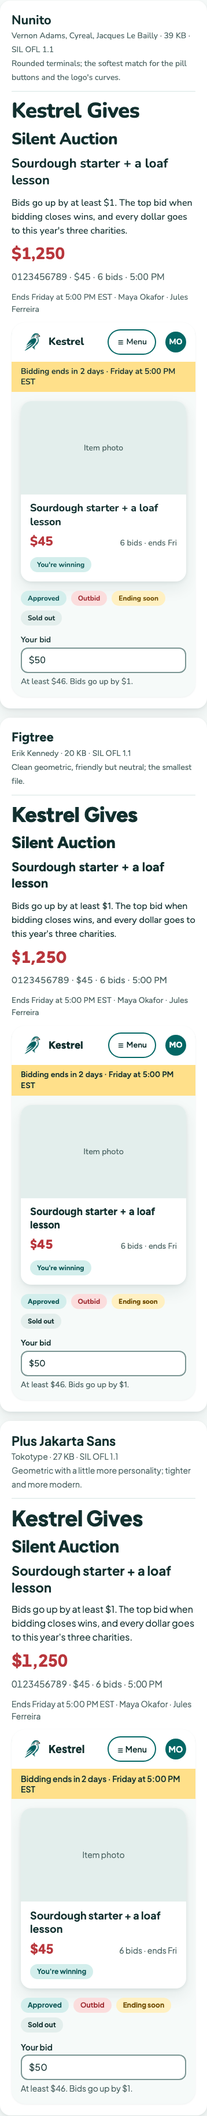
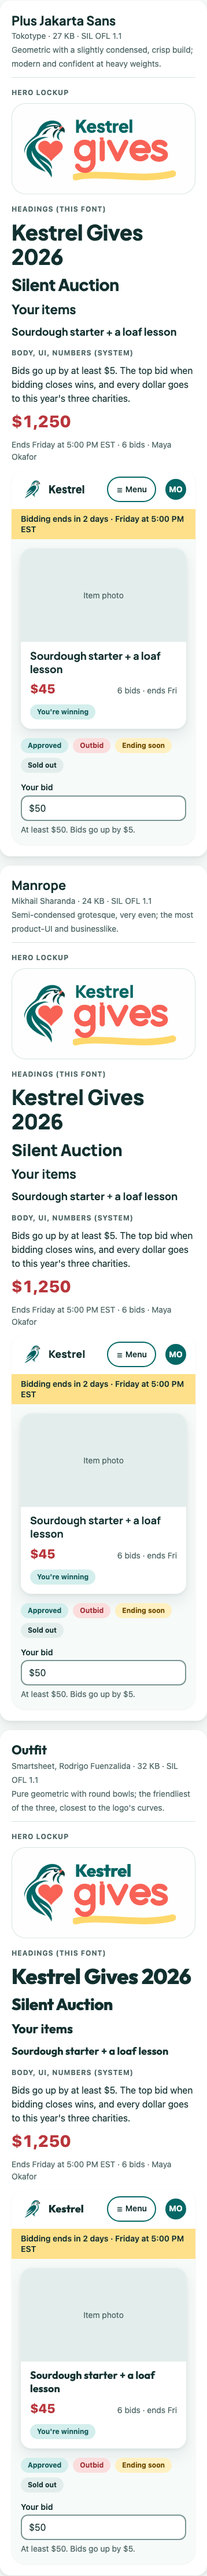
Heading-font candidates, 320px reflow check, bid copy fix, tabular figures (SPEC v1.4, #44-#46)
- tokens: --font-heading for display/heading roles only; amount on the
  system stack; --figures-amount: tabular-nums
- check 7: npm run check:reflow (every screen at 320px; no sideways scroll
  or clipped content), proven on synthetic pages and the real bug
- token sheet: Plus Jakarta Sans / Manrope / Outfit heading comparison
  with hero lockups; header wraps instead of clipping; bid copy uses the
  $5 increment
- SPEC sections 5, 7.4, 8, 12; DECISIONS #44-#46; README; BUILD-LOG

Claude-Session: https://claude.ai/code/session_015JgzUwBbGunLtZEHRRN7yC

diff --git a/design/token-sheet.html b/design/token-sheet.html
@@ -13,15 +13,17 @@
      sheet can't drift from the token file. Add ?font=nunito|figtree|jakarta to render the
      whole sheet in a candidate font. -->
 <style>
-/* Font candidates (review only; the chosen one moves to public/fonts/ and tokens.css). */
-@font-face { font-family: "Nunito"; src: url("font-candidates/nunito-latin-var.woff2") format("woff2"); font-weight: 200 1000; font-display: swap; }
-@font-face { font-family: "Figtree"; src: url("font-candidates/figtree-latin-var.woff2") format("woff2"); font-weight: 300 900; font-display: swap; }
+/* Heading-font candidates (review only; the chosen one moves to public/fonts/ and
+   tokens.css --font-heading). Body and UI stay on the system stack. */
 @font-face { font-family: "Plus Jakarta Sans"; src: url("font-candidates/plus-jakarta-sans-latin-var.woff2") format("woff2"); font-weight: 200 800; font-display: swap; }
+@font-face { font-family: "Manrope"; src: url("font-candidates/manrope-latin-var.woff2") format("woff2"); font-weight: 200 800; font-display: swap; }
+@font-face { font-family: "Outfit"; src: url("font-candidates/outfit-latin-var.woff2") format("woff2"); font-weight: 100 900; font-display: swap; }
+.cand-jakarta { --cand: "Plus Jakarta Sans"; }
+.cand-manrope { --cand: "Manrope"; }
+.cand-outfit { --cand: "Outfit"; }
 /* The --type-* roles resolve their family at :root, so a candidate is applied by
-   overriding font-family on everything inside it (review page only). */
-.font-nunito, .font-nunito * { font-family: "Nunito", var(--font-sans) !important; }
-.font-figtree, .font-figtree * { font-family: "Figtree", var(--font-sans) !important; }
-.font-jakarta, .font-jakarta * { font-family: "Plus Jakarta Sans", var(--font-sans) !important; }
+   overriding font-family on heading-role elements only (review page only). */
+:is(.cand-jakarta, .cand-manrope, .cand-outfit) :is(.s-heading, .hw-kestrel, .p-tile h4, .p-brand, .meta h1, h3) { font-family: var(--cand), var(--font-sans) !important; }
 code, code * { font-family: ui-monospace, SFMono-Regular, Menlo, monospace !important; }
 
 * { box-sizing: border-box; }
@@ -71,7 +73,7 @@ code { font-size: 0.92em; overflow-wrap: anywhere; }
 .crow .use { grid-area: use; font: var(--type-caption); color: var(--color-text-muted); }
 .chip { display: flex; align-items: center; gap: var(--space-2); background: var(--color-bg); color: var(--color-text); border-radius: var(--radius-md); padding: var(--space-2); box-shadow: var(--shadow-sm); min-width: 0; }
 .chip i { width: var(--space-8); height: var(--space-8); border-radius: var(--radius-sm); flex: none; box-shadow: inset 0 0 0 var(--border-thin) var(--color-border); }
-.chip span { font: var(--type-badge); font-weight: var(--weight-medium); font-variant-numeric: tabular-nums; overflow-wrap: anywhere; }
+.chip span { font: var(--type-badge); font-weight: var(--weight-medium); font-variant-numeric: var(--figures-amount); overflow-wrap: anywhere; }
 
 /* Contrast */
 .scroll { overflow-x: auto; }
@@ -79,7 +81,7 @@ code { font-size: 0.92em; overflow-wrap: anywhere; }
 .contrast { width: 100%; min-width: calc(var(--space-16) * 10); border-collapse: collapse; font: var(--type-caption); }
 .contrast th, .contrast td { text-align: left; padding: var(--space-2) var(--space-3); border-bottom: var(--border-thin) solid var(--color-border); }
 .contrast th { font: var(--type-label); color: var(--color-text-muted); }
-.contrast td.num { font-variant-numeric: tabular-nums; white-space: nowrap; }
+.contrast td.num { font-variant-numeric: var(--figures-amount); white-space: nowrap; }
 .sample-pair { display: inline-block; padding: var(--space-1) var(--space-2); border-radius: var(--radius-sm); font-weight: var(--weight-semibold); white-space: nowrap; }
 .pass { color: var(--color-success); font-weight: var(--weight-bold); }
 .fail { color: var(--color-danger); font-weight: var(--weight-bold); }
@@ -92,7 +94,7 @@ code { font-size: 0.92em; overflow-wrap: anywhere; }
 .trow .spec code { color: var(--color-text); font-weight: var(--weight-semibold); }
 .weights { display: flex; gap: var(--space-2) var(--space-6); flex-wrap: wrap; font: var(--type-heading-2); }
 
-/* Font candidates */
+/* Heading-font candidates */
 .fonts { display: grid; grid-template-columns: repeat(auto-fit, minmax(min(100%, calc(var(--size-tile-min) * 1.15)), 1fr)); gap: var(--space-4); }
 .font-col { background: var(--color-surface); border-radius: var(--radius-lg); box-shadow: var(--shadow-md); padding: var(--space-5); display: grid; gap: var(--space-3); align-content: start; min-width: 0; }
 .font-col header { border-bottom: var(--border-thin) solid var(--color-border); padding-bottom: var(--space-3); }
@@ -101,10 +103,14 @@ code { font-size: 0.92em; overflow-wrap: anywhere; }
 .font-col .s-display { font: var(--type-display); letter-spacing: var(--tracking-tight); margin: 0; }
 .font-col .s-h1 { font: var(--type-heading-1); letter-spacing: var(--tracking-tight); margin: 0; }
 .font-col .s-h2 { font: var(--type-heading-2); margin: 0; }
+.font-col .s-h3 { font: var(--type-heading-3); margin: 0; }
+.font-col .hero-card { margin: 0; padding: var(--space-4); gap: var(--space-3); box-shadow: inset 0 0 0 var(--border-thin) var(--color-border); }
+.font-col .hero-card img { height: calc(var(--space-16) * 1.6); }
+.font-col .hero-card svg { width: min(100%, calc(var(--space-16) * 3)); }
+.font-col .tag { font: var(--type-overline); letter-spacing: var(--tracking-label); text-transform: uppercase; color: var(--color-text-muted); margin: var(--space-2) 0 0; }
 .font-col .s-body { font: var(--type-body); margin: 0; }
 .font-col .s-caption { font: var(--type-caption); color: var(--color-text-muted); margin: 0; }
-.font-col .s-amount { font: var(--type-amount); color: var(--color-price); margin: 0; font-variant-numeric: tabular-nums; }
-.font-col .s-digits { font: var(--type-body); font-variant-numeric: tabular-nums; margin: 0; color: var(--color-text-muted); }
+.font-col .s-amount { font: var(--type-amount); color: var(--color-price); margin: 0; font-variant-numeric: var(--figures-amount); }
 
 /* Spacing, radius, shadow */
 .space-row { display: grid; grid-template-columns: minmax(0, 1.4fr) 1fr; gap: var(--space-3); align-items: center; padding: var(--space-1) 0; font: var(--type-caption); }
@@ -128,7 +134,7 @@ code { font-size: 0.92em; overflow-wrap: anywhere; }
 
 /* Tokens in use (a preview, not the components) */
 .preview { container-type: inline-size; background: var(--color-bg); color: var(--color-text); border-radius: var(--radius-xl); overflow: hidden; box-shadow: var(--shadow-sm); }
-.p-header { display: flex; align-items: center; gap: var(--space-3) var(--space-4); padding: var(--space-3) var(--space-4); background: var(--color-surface); box-shadow: 0 var(--border-thin) 0 var(--color-border); }
+.p-header { display: flex; flex-wrap: wrap; align-items: center; gap: var(--space-3) var(--space-4); padding: var(--space-3) var(--space-4); background: var(--color-surface); box-shadow: 0 var(--border-thin) 0 var(--color-border); }
 .p-brand { display: flex; align-items: center; gap: var(--space-2); font: var(--type-heading-3); font-weight: var(--weight-heavy); }
 .p-brand-tile { display: grid; place-items: center; width: var(--space-10); height: var(--space-10); border-radius: var(--radius-md); flex: none; }
 .scheme-dark .p-brand-tile { background: var(--color-mark-tile); }
@@ -146,7 +152,7 @@ code { font-size: 0.92em; overflow-wrap: anywhere; }
 .p-tile .c { padding: var(--space-3) var(--space-4) var(--space-4); }
 .p-tile h4 { margin: 0; font: var(--type-heading-3); }
 .p-price { display: flex; justify-content: space-between; align-items: baseline; gap: var(--space-2); margin: var(--space-2) 0 var(--space-3); }
-.p-price strong { font: var(--type-heading-2); font-weight: var(--weight-heavy); color: var(--color-price); font-variant-numeric: tabular-nums; }
+.p-price strong { font: var(--type-heading-2); font-weight: var(--weight-heavy); color: var(--color-price); font-variant-numeric: var(--figures-amount); }
 .p-price span { font: var(--type-caption); color: var(--color-text-muted); }
 .row { display: flex; gap: var(--space-2); flex-wrap: wrap; align-items: center; }
 .btn { font: var(--type-button); min-height: var(--size-target); padding: 0 var(--space-5); border-radius: var(--radius-pill); border: 0; cursor: pointer; transition: background-color var(--duration-fast) var(--ease-standard); }
@@ -163,7 +169,7 @@ code { font-size: 0.92em; overflow-wrap: anywhere; }
 .neutral { background: var(--color-surface-muted); color: var(--color-text); }
 .field { display: grid; gap: var(--space-1); max-width: var(--size-content-narrow); }
 .field label { font: var(--type-label); }
-.field input { font: var(--type-body); min-height: var(--size-target); padding: 0 var(--space-3); border-radius: var(--radius-md); border: var(--border-thick) solid var(--color-border-strong); background: var(--color-surface); color: var(--color-text); min-width: 0; }
+.field input { font: var(--type-body); font-variant-numeric: var(--figures-amount); min-height: var(--size-target); padding: 0 var(--space-3); border-radius: var(--radius-md); border: var(--border-thick) solid var(--color-border-strong); background: var(--color-surface); color: var(--color-text); min-width: 0; }
 .field input:focus-visible { outline: var(--focus-width) solid var(--color-focus); outline-offset: var(--focus-offset); }
 .field .help { font: var(--type-caption); color: var(--color-text-muted); }
 .field.err input { border-color: var(--color-danger); }
@@ -225,8 +231,8 @@ footer { margin-top: var(--space-12); padding-top: var(--space-4); border-top: v
   <h3>Weights</h3>
   <div class="weights" data-weights></div>
 
-  <h2>Font candidates</h2>
-  <p class="lede">One font, self-hosted (a variable WOFF2 with the Latin subset, from <code>public/fonts/</code>), with the system stack as the fallback. All three are SIL Open Font License 1.1.</p>
+  <h2>Heading font candidates</h2>
+  <p class="lede">System fonts for body, UI, and numbers. One self-hosted font (a variable WOFF2 with the Latin subset, in <code>public/fonts/</code>) only for the display and heading roles and the hero "Kestrel", with the system stack as its fallback. All three are SIL Open Font License 1.1. Add <code>?heading=jakarta</code>, <code>manrope</code>, or <code>outfit</code> to the URL to set the whole sheet's headings in one.</p>
   <div class="fonts" data-fonts></div>
 
   <h2>Spacing</h2>
@@ -291,7 +297,7 @@ footer { margin-top: var(--space-12); padding-top: var(--space-4); border-top: v
       <div class="row">
         <span class="pill ok">Approved</span><span class="pill bad">Outbid</span><span class="pill warn">Ending soon</span><span class="pill neutral">Sold out</span><span class="pill bad" data-full>Rejected</span><span class="pill warn" data-full>Proof due in 3 days</span>
       </div>
-      <div class="field"><label>Your bid</label><input value="$50" aria-label="Your bid"><span class="help">At least $46. Bids go up by $1.</span></div>
+      <div class="field"><label>Your bid</label><input value="$50" aria-label="Your bid"><span class="help">At least $50. Bids go up by $5.</span></div>
       <div class="field err" data-full><label>Donation amount</label><input value="$30" aria-label="Donation amount"><span class="help">This is less than the $45 you owe. You can still submit.</span></div>
       <p style="margin: 0" data-full><a class="p-link" href="#">Upload donation proof</a></p>
       <div class="p-toast" data-full>Bid placed. You're the top bidder.</div>
@@ -383,7 +389,7 @@ const ROLES = [
   ["--type-heading-3", "Tile titles, card headings", "Sourdough starter + a loaf lesson"],
   ["--type-amount", "Item price on the detail page", "$1,250"],
   ["--type-body-lg", "Lead paragraphs", "Bid on things your coworkers made, found, or offered."],
-  ["--type-body", "Body, inputs", "Bids go up by at least $1. The top bid when bidding closes wins."],
+  ["--type-body", "Body, inputs", "Bids go up by at least $5. The top bid when bidding closes wins."],
   ["--type-label", "Form labels, nav, table headers", "Your bid"],
   ["--type-button", "Buttons", "Place a bid"],
   ["--type-caption", "Help text, meta", "6 bids · ends Friday at 5:00 PM EST"],
@@ -392,15 +398,15 @@ const ROLES = [
 ];
 const SCALE = ["--text-xs", "--text-sm", "--text-md", "--text-lg", "--text-xl", "--text-2xl", "--text-3xl", "--text-4xl"];
 const FONTS = [
-  ["font-nunito", "Nunito", "Rounded terminals; the softest match for the pill buttons and the logo's curves.", "nunito"],
-  ["font-figtree", "Figtree", "Clean geometric, friendly but neutral; the smallest file.", "figtree"],
-  ["font-jakarta", "Plus Jakarta Sans", "Geometric with a little more personality; tighter and more modern.", "plus-jakarta-sans"],
+  ["cand-jakarta", "Plus Jakarta Sans", "Geometric with a slightly condensed, crisp build; modern and confident at heavy weights.", "plus-jakarta-sans"],
+  ["cand-manrope", "Manrope", "Semi-condensed grotesque, very even; the most product-UI and businesslike.", "manrope"],
+  ["cand-outfit", "Outfit", "Pure geometric with round bowls; the friendliest of the three, closest to the logo's curves.", "outfit"],
 ];
-const FONT_META = { nunito: ["Vernon Adams, Cyreal, Jacques Le Bailly", "39 KB"], figtree: ["Erik Kennedy", "20 KB"], "plus-jakarta-sans": ["Tokotype", "27 KB"] };
+const FONT_META = { "plus-jakarta-sans": ["Tokotype", "27 KB"], manrope: ["Mikhail Sharanda", "24 KB"], outfit: ["Smartsheet, Rodrigo Fuenzalida", "32 KB"] };
 
-// Whole-sheet font override for review: ?font=nunito|figtree|jakarta
-const pick = new URLSearchParams(location.search).get("font");
-if (pick) document.documentElement.classList.add(`font-${pick}`);
+// Whole-sheet heading override for review: ?heading=jakarta|manrope|outfit
+const pick = new URLSearchParams(location.search).get("heading");
+if (pick) document.documentElement.classList.add(`cand-${pick}`);
 
 const root = getComputedStyle(document.documentElement);
 const raw = (name) => root.getPropertyValue(name).trim();
@@ -506,7 +512,7 @@ for (const [role, use, sample, tight] of ROLES) {
   const leadVal = lead;
   roleHost.append(el("div", { className: "trow" },
     el("div", { className: "spec" }, code(role), el("br"), `${use}`),
-    el("div", { textContent: sample, style: `font: var(${role}); ${tight ? "letter-spacing: var(--tracking-tight);" : ""} ${role === "--type-overline" ? "letter-spacing: var(--tracking-label);" : ""} ${role === "--type-amount" ? "color: var(--color-price);" : ""}` }),
+    el("div", { textContent: sample, className: /display|heading/.test(role) ? "s-heading" : "", style: `font: var(${role}); ${tight ? "letter-spacing: var(--tracking-tight);" : ""} ${role === "--type-overline" ? "letter-spacing: var(--tracking-label);" : ""} ${role === "--type-amount" ? "color: var(--color-price);" : ""}` }),
     el("div", { className: "spec" }, `${sizeTok.replace("--", "")} · ${px}`, el("br"), `${wTok.replace("--weight-", "")} ${w} · leading ${leadVal}`, el("br"), "Figma: ", code(figmaName(role)), " text style")));
 }
 const scaleHost = document.querySelector("[data-scale]");
@@ -526,15 +532,20 @@ const fHost = document.querySelector("[data-fonts]");
 for (const [cls, name, note, slug] of FONTS) {
   const [designer, size] = FONT_META[slug];
   const col = el("section", { className: `font-col ${cls}`, ariaLabel: name });
+  const lockup = document.querySelector(".hero-card").cloneNode(true);
   col.append(
-    el("header", {}, el("strong", { textContent: name }), el("span", { textContent: `${designer} · ${size} · SIL OFL 1.1` }), el("br"), el("span", { textContent: note })),
-    el("p", { className: "s-display", textContent: "Kestrel Gives" }),
-    el("p", { className: "s-h1", textContent: "Silent Auction" }),
-    el("p", { className: "s-h2", textContent: "Sourdough starter + a loaf lesson" }),
-    el("p", { className: "s-body", textContent: "Bids go up by at least $1. The top bid when bidding closes wins, and every dollar goes to this year's three charities." }),
+    el("header", {}, el("strong", { className: "s-heading", textContent: name }), el("span", { textContent: `${designer} · ${size} · SIL OFL 1.1` }), el("br"), el("span", { textContent: note })),
+    el("p", { className: "tag", textContent: "Hero lockup" }),
+    lockup,
+    el("p", { className: "tag", textContent: "Headings (this font)" }),
+    el("p", { className: "s-display s-heading", textContent: "Kestrel Gives 2026" }),
+    el("p", { className: "s-h1 s-heading", textContent: "Silent Auction" }),
+    el("p", { className: "s-h2 s-heading", textContent: "Your items" }),
+    el("p", { className: "s-h3 s-heading", textContent: "Sourdough starter + a loaf lesson" }),
+    el("p", { className: "tag", textContent: "Body, UI, numbers (system)" }),
+    el("p", { className: "s-body", textContent: "Bids go up by at least $5. The top bid when bidding closes wins, and every dollar goes to this year's three charities." }),
     el("p", { className: "s-amount", textContent: "$1,250" }),
-    el("p", { className: "s-digits", textContent: "0123456789 · $45 · 6 bids · 5:00 PM" }),
-    el("p", { className: "s-caption", textContent: "Ends Friday at 5:00 PM EST · Maya Okafor · Jules Ferreira" }),
+    el("p", { className: "s-caption", textContent: "Ends Friday at 5:00 PM EST · 6 bids · Maya Okafor" }),
   );
   const mini = document.getElementById("preview").content.cloneNode(true);
   for (const n of mini.querySelectorAll("[data-full]")) n.remove();

diff --git a/public/styles/tokens.css b/public/styles/tokens.css
@@ -54,10 +54,14 @@
   --color-mark-tile:       light-dark(#FEFEFE, #FEFEFE); /* the art's own white */
 
   /* ---------- Type: families ---------- */
-  /* The self-hosted brand font is chosen in Milestone 1 (SPEC §5); the system stack is
-     the fallback while it loads and if it fails. */
+  /* System fonts for body and UI. One self-hosted heading font (chosen at the Milestone 1
+     review, SPEC §5) for the display and heading roles and the hero "Kestrel"; the system
+     stack is its fallback while it loads and if it fails. */
   --font-sans: system-ui, -apple-system, "Segoe UI", Roboto, "Helvetica Neue", Arial, sans-serif;
-  --font-display: var(--font-sans);
+  --font-heading: var(--font-sans);
+
+  /* Prices, bid amounts, and counts line up: font-variant-numeric: var(--figures-amount). */
+  --figures-amount: tabular-nums;
 
   /* ---------- Type: scale (building blocks; components use the roles below) ---------- */
   --text-xs:   0.75rem;  /* 12 */
@@ -83,11 +87,11 @@
   --tracking-label: 0.08em;   /* uppercase eyebrow labels */
 
   /* ---------- Type: roles (use with the font shorthand: font: var(--type-body)) ---------- */
-  --type-display:   var(--weight-heavy) var(--text-4xl)/var(--leading-tight) var(--font-display);   /* Home headline */
-  --type-heading-1: var(--weight-heavy) var(--text-2xl)/var(--leading-tight) var(--font-display);   /* page titles */
-  --type-heading-2: var(--weight-bold) var(--text-xl)/var(--leading-snug) var(--font-display);      /* section headings */
-  --type-heading-3: var(--weight-bold) var(--text-lg)/var(--leading-snug) var(--font-display);      /* tile titles, card headings */
-  --type-amount:    var(--weight-heavy) var(--text-3xl)/var(--leading-tight) var(--font-display);   /* item price on detail page */
+  --type-display:   var(--weight-heavy) var(--text-4xl)/var(--leading-tight) var(--font-heading);   /* Home headline */
+  --type-heading-1: var(--weight-heavy) var(--text-2xl)/var(--leading-tight) var(--font-heading);   /* page titles */
+  --type-heading-2: var(--weight-bold) var(--text-xl)/var(--leading-snug) var(--font-heading);      /* section headings */
+  --type-heading-3: var(--weight-bold) var(--text-lg)/var(--leading-snug) var(--font-heading);      /* tile titles, card headings */
+  --type-amount:    var(--weight-heavy) var(--text-3xl)/var(--leading-tight) var(--font-sans);      /* item price on detail page; with --figures-amount */
   --type-body-lg:   var(--weight-regular) var(--text-lg)/var(--leading-normal) var(--font-sans);    /* lead paragraphs */
   --type-body:      var(--weight-regular) var(--text-md)/var(--leading-normal) var(--font-sans);    /* body, inputs */
   --type-label:     var(--weight-semibold) var(--text-sm)/var(--leading-snug) var(--font-sans);     /* form labels, nav, table headers */

diff --git a/tests/e2e/reflow.ts b/tests/e2e/reflow.ts
@@ -1,0 +1,40 @@
+// WCAG 2.2 reflow (1.4.10), SPEC §8 and §12: at 320px nothing may scroll or be cut off
+// sideways. Runs inside the page (page.evaluate), so it must be self-contained.
+// Returns one line per problem; an empty list passes.
+//
+// The server/test tsconfig has no DOM types (DECISIONS #26), so the few browser shapes this
+// uses are declared here instead of pulling DOM types into the whole program.
+interface Box {
+  tagName: string;
+  id: string;
+  classList: ArrayLike<string> & Iterable<string>;
+  clientWidth: number;
+  scrollWidth: number;
+}
+interface Page {
+  document: { documentElement: Box; body: { querySelectorAll(selector: string): Iterable<Box> } };
+  getComputedStyle(el: Box): { overflowX: string; textOverflow: string };
+}
+
+export function findReflowProblems(): string[] {
+  const { document, getComputedStyle } = globalThis as unknown as Page;
+  const problems: string[] = [];
+  const root = document.documentElement;
+  if (root.scrollWidth > root.clientWidth) {
+    problems.push(`page scrolls sideways: content is ${root.scrollWidth}px wide in a ${root.clientWidth}px viewport`);
+  }
+  const describe = (el: Box) =>
+    el.tagName.toLowerCase() + (el.id ? `#${el.id}` : "") + (el.classList.length ? `.${[...el.classList].join(".")}` : "");
+  for (const el of document.body.querySelectorAll("*")) {
+    if (el.clientWidth === 0 || el.scrollWidth <= el.clientWidth + 1) continue;
+    const style = getComputedStyle(el);
+    // Allowed: regions meant to scroll sideways (WCAG's 2D-content exception, e.g. wide
+    // tables) and text deliberately truncated with an ellipsis.
+    if (style.overflowX === "auto" || style.overflowX === "scroll") continue;
+    if (style.textOverflow === "ellipsis") continue;
+    if (style.overflowX === "hidden" || style.overflowX === "clip") {
+      problems.push(`${describe(el)} cuts off ${el.scrollWidth - el.clientWidth}px of content sideways`);
+    }
+  }
+  return problems;
+}

diff --git a/playwright.config.ts b/playwright.config.ts
@@ -1,5 +1,6 @@
 // Browser checks (SPEC §12): axe accessibility and visual-review screenshots, each in
-// light and dark mode at a phone width (390px) and a desktop width (1280px), against
+// light and dark mode at a phone width (390px) and a desktop width (1280px), plus a reflow
+// check at 320px (WCAG 2.2), against
 // `npm start` (vercel dev on the dev database).
 import { defineConfig, devices } from "@playwright/test";
 
@@ -16,12 +17,17 @@ export default defineConfig({
   fullyParallel: true,
   reporter: "list",
   use: { baseURL: "http://localhost:3000" },
-  projects: (["light", "dark"] as const).flatMap((colorScheme) =>
-    WIDTHS.map(({ width, height }) => ({
-      name: `${colorScheme}-${width}`,
-      use: { ...devices["Desktop Chrome"], colorScheme, viewport: { width, height } },
-    })),
-  ),
+  projects: [
+    ...(["light", "dark"] as const).flatMap((colorScheme) =>
+      WIDTHS.map(({ width, height }) => ({
+        name: `${colorScheme}-${width}`,
+        testIgnore: /reflow\.spec\.ts/,
+        use: { ...devices["Desktop Chrome"], colorScheme, viewport: { width, height } },
+      })),
+    ),
+    // WCAG 2.2 reflow floor (SPEC §8): layout doesn't depend on the color scheme.
+    { name: "reflow-320", testMatch: /reflow\.spec\.ts/, use: { ...devices["Desktop Chrome"], viewport: { width: 320, height: 800 } } },
+  ],
   webServer: {
     command: "npm start",
     url: "http://localhost:3000/api/health",

diff --git a/tests/e2e/reflow.spec.ts b/tests/e2e/reflow.spec.ts
@@ -1,0 +1,13 @@
+// Conformance check 7 (SPEC §12): WCAG 2.2 reflow. Every screen at 320px wide, with no
+// sideways scrolling and nothing cut off. 360px is the design target; 320px is the floor.
+import { expect, test } from "@playwright/test";
+import { findReflowProblems } from "./reflow.ts";
+import { SCREENS } from "./screens.ts";
+
+for (const screen of SCREENS) {
+  test(`${screen.name} reflows at 320px`, async ({ page }) => {
+    await page.goto(screen.path);
+    await page.waitForLoadState("networkidle");
+    expect(await page.evaluate(findReflowProblems)).toEqual([]);
+  });
+}

diff --git a/SPEC.md b/SPEC.md
@@ -125,9 +125,9 @@ There is no inherited design system, so this project defines its own, from scrat
 - Every component MUST be documented in `DESIGN-SYSTEM.md`: purpose, variants, states (default, hover, focus, active, disabled, loading, error, empty), and do/don't usage.
 - New components MUST be added to the design system before they're used in a screen.
 - The look is decided in Milestone 1: the owner reviews a token sheet before any screen is built.
-- **Type roles:** type is set with semantic role tokens (`--type-display`, `--type-heading-1` to `-3`, `--type-amount`, `--type-body-lg`, `--type-body`, `--type-label`, `--type-button`, `--type-caption`, `--type-badge`, `--type-overline`), each setting size, weight, leading, and family through the `font` shorthand. Components MUST use the roles, never the `--text-*` scale steps directly. The largest steps (`--text-3xl`, `--text-4xl`) are fluid with `clamp()` so they shrink on phones.
+- **Type roles:** type is set with semantic role tokens (`--type-display`, `--type-heading-1` to `-3`, `--type-amount`, `--type-body-lg`, `--type-body`, `--type-label`, `--type-button`, `--type-caption`, `--type-badge`, `--type-overline`), each setting size, weight, leading, and family through the `font` shorthand. Components MUST use the roles, never the `--text-*` scale steps directly. Only the display and heading roles use the heading font; every other role, including amount, uses the system stack. The largest steps (`--text-3xl`, `--text-4xl`) are fluid with `clamp()` so they shrink on phones. Prices, bid amounts, and other figures that change or line up MUST use tabular numerals (`font-variant-numeric: var(--figures-amount)`).
 - **Breakpoints:** layouts are intrinsic by default (grids wrap at `--size-tile-min`). Things that need a condition, such as the nav collapsing to a menu, MAY use only the named breakpoint values documented in `tokens.css` (`--breakpoint-sm` 40rem, `--breakpoint-lg` 64rem). They're written out only inside `@media` or `@container` conditions, in range syntax, because CSS can't read custom properties there.
-- **Font:** one Google Font, self-hosted: the variable WOFF2 with the Latin subset, committed under `public/fonts/` with its license, loaded with `@font-face` and `font-display: swap`. The site MUST NOT request anything from Google's servers. The system font stack is the fallback. The font's license (SIL OFL) is recorded in `CREDITS.md`. The font is chosen at the Milestone 1 token review.
+- **Fonts:** body, UI, and numbers use the system font stack. One Google Font, self-hosted, is used only for headings (the display and heading roles) and the live "Kestrel" text in the Home hero. It's the variable WOFF2 with the Latin subset, committed under `public/fonts/` with its license, and loaded with `@font-face` and `font-display: swap`. The system stack is its fallback. The site MUST NOT request anything from Google's servers. The font's license (SIL OFL) is recorded in `CREDITS.md`. The font is chosen at the Milestone 1 token review.
 - **Figma:** `tokens.css` is the source of truth. Figma variables and styles mirror it with matching names: drop the `--` and turn the first hyphen into a slash (`--color-accent` ↔ `color/accent`). The token sheet lists each Figma name. On Figma Pro there's no Variables REST API or Code Connect, so the sync is a manual push plus a drift check at each milestone checkpoint, not CI. The Figma work happens outside this repo.
 - Starter component list: button, text input, textarea, select, date-time input, form field (label + help + error), radio card, card, item tile, badge/status pill, table, tabs, dialog, toast, banner, empty state, page header, site header and nav, profile menu, avatar (with top-bidder crown), photo uploader (with reorder), photo carousel, demo bar.
 - **Logos:**
@@ -186,6 +186,7 @@ Each has a name, a one-sentence description, and an original logo. There is **on
 
 ### 7.4 Bidding (silent auction)
 - A first bid MUST be at least the item's starting bid. Every later bid MUST exceed the current high bid by at least the event's increment.
+- Copy that states a minimum bid or the increment ("At least $50. Bids go up by $5.") MUST be computed from the event settings and the item's current high bid, never hard-coded.
 - Bidding MUST be blocked outside the live phase.
 - The current high bidder MUST NOT bid again on that item ("You're already the high bidder").
 - Placing a bid shows a confirmation dialog with the amount and item.
@@ -230,7 +231,7 @@ Money MUST be stored as whole cents (integers), never floating point.
 Site header with the Kestrel wordmark and: **Home**, **Silent Auction**, **Instant Sale**, **Your Items**, and **Submit an Item** (shown only during the submission window). In the upper right is the user's avatar. For admins, it has a chevron and opens a menu with a link to the **Admin Dashboard**. Admin links are never shown to employees. On small screens the nav collapses to a menu button.
 
 ### Responsive
-One responsive, mobile-first site, not a separate app. Every screen MUST work from 360px wide up. Layouts start from the phone and add columns as space allows (section 5, Breakpoints). The browser checks run at 390px and 1280px (section 12).
+One responsive, mobile-first site, not a separate app. Every screen MUST work from 360px wide up (the design target), and at 320px nothing may scroll or be cut off sideways (WCAG 2.2 reflow, 1.4.10). The only exceptions are regions meant to scroll sideways, such as a wide table. Layouts start from the phone and add columns as space allows (section 5, Breakpoints). The browser checks run at 390px and 1280px, plus a reflow check at 320px (section 12).
 
 ### Phase banners
 A banner just below the header shows the current phase message, for example "Submissions are open until Nov 14," "Bidding opens Nov 17 at 9:00 AM," "Bidding ends in 2 days," "Bidding has ended. Winners, please upload proof by Dec 1." One banner at a time.
@@ -287,6 +288,7 @@ These run before any change counts as done. Each is a script in `package.json`.
 4. **Type check:** `tsc --noEmit` passes.
 5. **Business rules:** `node:test` tests cover section 7: bid minimums and increments, no self-outbidding, time windows for every phase, the inventory floor, simultaneous bids and purchases (against real Postgres on the `dev` branch), edit locks, delete and cancel rules, the reset lock, and template variable validation.
 6. **Visual review:** Playwright screenshots of every screen in every seeded state, in light and dark mode, at 390px and 1280px wide, with `?demo=off`, for a human to review.
+7. **Reflow:** Playwright loads every screen at 320px wide and fails if the page scrolls sideways or any element cuts off content sideways. Regions meant to scroll (overflow auto or scroll) and text truncated with an ellipsis are allowed.
 
 ## 13. How the agent works
 

diff --git a/DECISIONS.md b/DECISIONS.md
@@ -80,3 +80,6 @@ All made while finalizing v1.0. Moved here from SPEC.md in v1.1.
 | 41 | **Type roles over the scale.** Twelve `--type-*` role tokens (display, heading-1/2/3, amount, body-lg, body, label, button, caption, badge, overline) each set weight, size, leading, and family for the `font` shorthand. Components use roles only, and `check:tokens` flags any `var(--text-*)` outside `tokens.css`. `--text-3xl` (28→36px) and `--text-4xl` (36→48px) are fluid with `clamp(rem, rem + vw, rem)` | Components pick scale steps directly; fluid sizes for every step; separate size, weight, and leading tokens per role | Roles name the intent, so a heading looks the same everywhere and a later type change is one edit. Enforcing it keeps that true as screens are added. Only the two largest sizes need to shrink on phones; body sizes stay fixed for readability. The clamp keeps a rem part, so text still scales with browser zoom. One shorthand per role (letter-spacing aside) is simpler than three tokens per role. |
 | 42 | **Responsive and breakpoints.** One responsive, mobile-first site from 360px up, with the nav collapsing to a menu on small screens (SPEC §8). Layouts are intrinsic by default. Two named breakpoints, `--breakpoint-sm` 40rem and `--breakpoint-lg` 64rem, are documented in `tokens.css` and written out only inside `@media` or `@container` conditions in range syntax (`width < 40rem`). `check:tokens` reads the allowed values from `tokens.css` and allows exactly those, only in conditions. axe and the visual review run at 390px and 1280px, in light and dark (4 Playwright projects) | Intrinsic layouts only (the first proposal); a full breakpoint scale; allow any length in media queries; a separate mobile app | Some things need a condition: a nav can't wrap its way into a menu. CSS can't read custom properties in media queries, so the values have to appear there literally. Allowing only the named ones keeps the set small and the check strict. Range syntax avoids the `max-width: 39.99rem` off-by-one. 390px is a common phone width; 1280px is a common laptop width. |
 | 43 | **Figma mirrors the tokens.** `tokens.css` is the source of truth. Figma names match it: drop the `--` and turn the first hyphen into a slash (`--color-accent` ↔ `color/accent`). Colors are color variables with Light and Dark modes. Sizes, spacing, radius, lines, weights, and breakpoints are number variables; the two fluid sizes get Phone (390) and Desktop (1280) modes. Type roles are text styles and shadows are effect styles. Easing and layers aren't mirrored. The token sheet shows each Figma name. Sync is a manual push, plus a drift check at each milestone checkpoint. The Figma work happens outside this repo | Figma as the source; Tokens Studio or another plugin; automated sync through the Variables REST API; no Figma | The code is what ships, so it leads. On Figma Pro there's no Variables REST API or Code Connect, so automated sync and CI drift checks aren't possible. A plugin would be a new tool outside the approved list. A predictable naming rule makes the manual check a side-by-side read of the token sheet. |
+| 44 | **System fonts, plus one heading font** (the face itself is picked at the review: Plus Jakarta Sans, Manrope, or Outfit). Body, UI, and numbers use the system stack. One self-hosted Google Font (variable WOFF2, Latin subset, in `public/fonts/` with its OFL license, `font-display: swap`, no requests to Google) is used only by `--font-heading`: the display and heading roles and the live "Kestrel" in the hero. `--type-amount` moved to the system stack | One self-hosted font for everything (first proposal: Nunito, Figtree, or Plus Jakarta Sans); system fonts only; Google Fonts' hosted CSS | The owner rejected Nunito as too childish for something that should look professional. A heading-only font gives the brand a voice where it shows (headings and the hero) while body and UI text render instantly in the platform's most readable face, with one small file to load. Numbers stay on the system stack so prices look the same as the rest of the UI. Self-hosting keeps visitors' requests off Google's servers. |
+| 45 | **Reflow at 320px is a conformance check.** 360px stays the design target, but at 320px nothing may scroll or be cut off sideways (WCAG 2.2 SC 1.4.10). `npm run check:reflow` (check 7) loads every screen at 320px in its own Playwright project and fails on sideways page scroll or any element that clips content with `overflow: hidden/clip`. Regions meant to scroll (`overflow-x: auto/scroll`) and ellipsis truncation are allowed. The in-page helper declares the few browser shapes it needs instead of adding DOM types to the server tsconfig (#26) | Design for 360px only; test 320px by hand; check page scroll only | SPEC §6 requires WCAG 2.2 AA, and reflow is tested at 320 CSS px. Page-level scroll alone would have missed the actual bug: the token sheet's preview header overflowed by 13px inside a container with `overflow: hidden`, so it was cut off, not scrollable. The check was proven against that case and against synthetic pages. Wrapping the header (instead of overflowing) fixed it, and the real header component will be built the same way. |
+| 46 | **Figures and bid copy.** Prices, bid amounts, and counts use tabular numerals through `--figures-amount` (`tabular-nums`). Copy that states a minimum bid or increment is computed from the event settings and the current high bid, never hard-coded (SPEC §7.4) | Proportional figures; hard-coded sample amounts | Tabular figures keep amounts from jiggling when the high bid refreshes and line them up in bid history. The token sheet's sample said "At least $46. Bids go up by $1." while the event default increment is $5 (SPEC §7.1). The owner caught it, and the rule keeps that class of bug out of the real components. |

diff --git a/BUILD-LOG.md b/BUILD-LOG.md
@@ -167,3 +167,20 @@ Entry format: what we built, what was hard, what AI did well, where the owner st
   - **Mini previews:** their nav wrapped inside the narrow font columns. It now collapses with a container query at the same 40rem. The real header will use `@media`.
   - **Overflow:** none at 390px or 360px. At 320px (the WCAG reflow width) the preview overflows by 13px. That was raised with the owner rather than fixed silently.
 - **Checks:** `npm run check` passes all six.
+
+### 2026-11-01 — Stage 2c: heading font, reflow, bid copy
+- **Owner stepped in:**
+  - Rejected Nunito as too childish and changed the plan: system fonts for body and UI, plus one heading font, with Plus Jakarta Sans, Manrope, and Outfit as the candidates (#44).
+  - Agreed to keep 360px as the design target with a reflow floor at 320px, and asked for an automated check (#45).
+  - Caught a sample-copy bug: "At least $46. Bids go up by $1." contradicts the $5 default increment. Asked for tabular numerals on amounts (#46).
+- **Built:**
+  - **Tokens:** `--font-display` became `--font-heading` and is used only by the display and heading roles and the hero "Kestrel". `--type-amount` moved to the system stack. New token `--figures-amount: tabular-nums`.
+  - **Reflow:** `tests/e2e/reflow.ts` and `reflow.spec.ts`, plus a `reflow-320` Playwright project and `npm run check:reflow` as check 7. It fails on sideways page scroll or content clipped sideways, and allows scroll regions and ellipsis truncation. It was proven on synthetic pages (wide page, clipped card, allowed table and ellipsis) and on the real bug.
+  - **Token sheet:** the bid copy now reads "At least $50. Bids go up by $5.", and tabular figures are used throughout. The font section now compares headings and the hero lockup in the three candidates side by side, with body text on the system stack. `?heading=jakarta|manrope|outfit` sets the whole sheet's headings in one candidate.
+  - **SPEC v1.4:** §5 fonts, type roles, and tabular figures; §7.4 bid copy comes from settings; §8 the 320px reflow floor; §12 check 7. README lists seven checks.
+- **Fonts:** Manrope (24 KB) and Outfit (32 KB) were downloaded the same way as before: a Latin-subset variable WOFF2, the `wOF2` signature checked, and the SIL OFL 1.1 license confirmed from `OFL.txt` and `METADATA.pb` in google/fonts. Nunito and Figtree were removed from the candidates folder.
+- **Hard / caught:**
+  - **Wrong element measured:** the 13px overflow came from the mini previews inside the narrow font columns, not the main preview. My earlier probe had measured the first `.preview` in the page without checking which one it was.
+  - **Clipped, not scrolling:** the header couldn't fit in 248px and was clipped by `overflow: hidden`, so the page never scrolled sideways and a page-scroll check alone would have missed it. Fixed by letting the header wrap.
+  - **DOM types:** the reflow helper declares its own minimal browser types, so the server tsconfig stays free of DOM types (#26).
+- **Checks:** `npm run check` passes all seven.

diff --git a/README.md b/README.md
@@ -55,7 +55,7 @@ On the deployed site, uploads go to one public Vercel Blob store under a per-env
 
 ## Checks
 
-Every change must pass the six conformance checks in SPEC.md section 12. `npm run check` runs them all, in this order:
+Every change must pass the seven conformance checks in SPEC.md section 12. `npm run check` runs them all, in this order:
 
 | Script | Check |
 |---|---|
@@ -64,6 +64,7 @@ Every change must pass the six conformance checks in SPEC.md section 12. `npm ru
 | `npm run check:types` | `tsc --noEmit` for server and browser code |
 | `npm run test:rules` | `node:test` unit tests; SPEC §7 rules not yet built are listed as todos |
 | `npm run check:a11y` | axe (WCAG 2.2 AA) on every screen in `tests/e2e/screens.ts`, light and dark, at 390px and 1280px; zero violations allowed |
+| `npm run check:reflow` | Every screen at 320px wide: no sideways scrolling and nothing cut off (WCAG 2.2 reflow); scroll regions and ellipsis truncation allowed |
 | `npm run check:visual` | Full-page screenshots of every screen, light and dark, at 390px and 1280px, with `?demo=off`, saved to `visual-review/` for a person to review |
 
 The browser checks start `npm start` themselves (or reuse one that's running) and reseed the `dev` database first. One-time setup for them:

diff --git a/CREDITS.md b/CREDITS.md
@@ -9,7 +9,7 @@ The Kestrel org mark and the Kestrel Gives event mark were designed by me with a
 
 ## Fonts
 
-Chosen at the Milestone 1 token review; the font, its source, and its license (SIL Open Font License 1.1) are recorded here once picked.
+Body and UI use system fonts. The one heading font is chosen at the Milestone 1 token review; its name, source, and license (SIL Open Font License 1.1) are recorded here once picked.
 
 ## Photos
 
